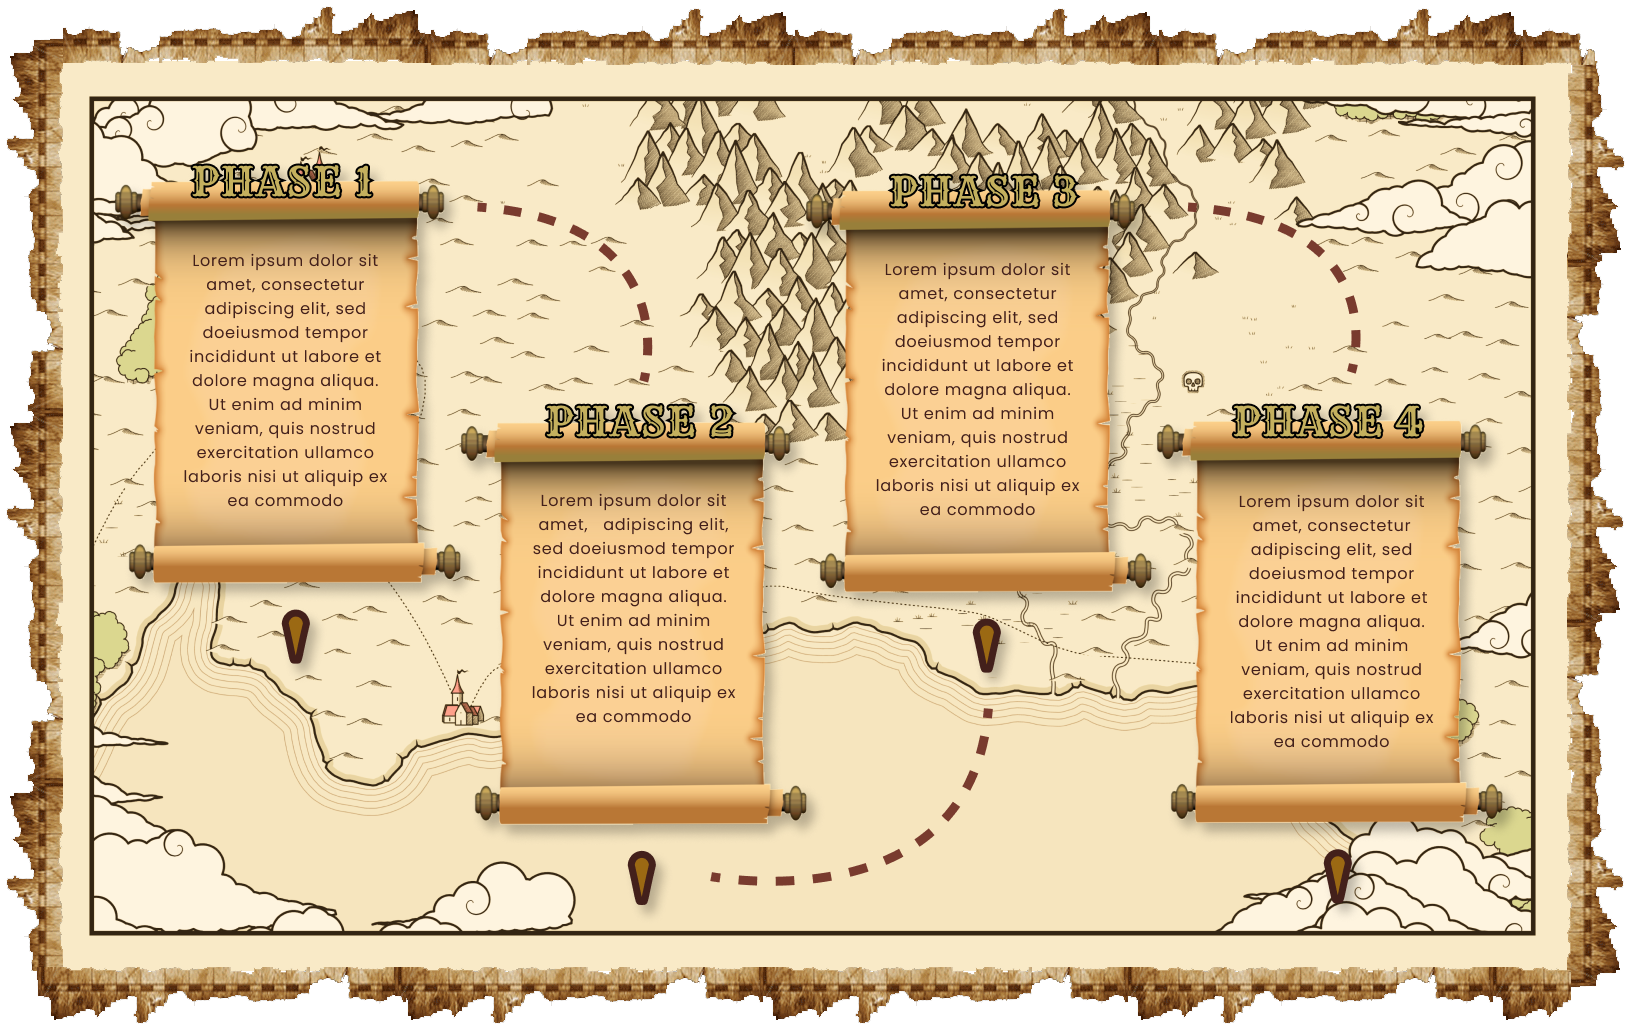
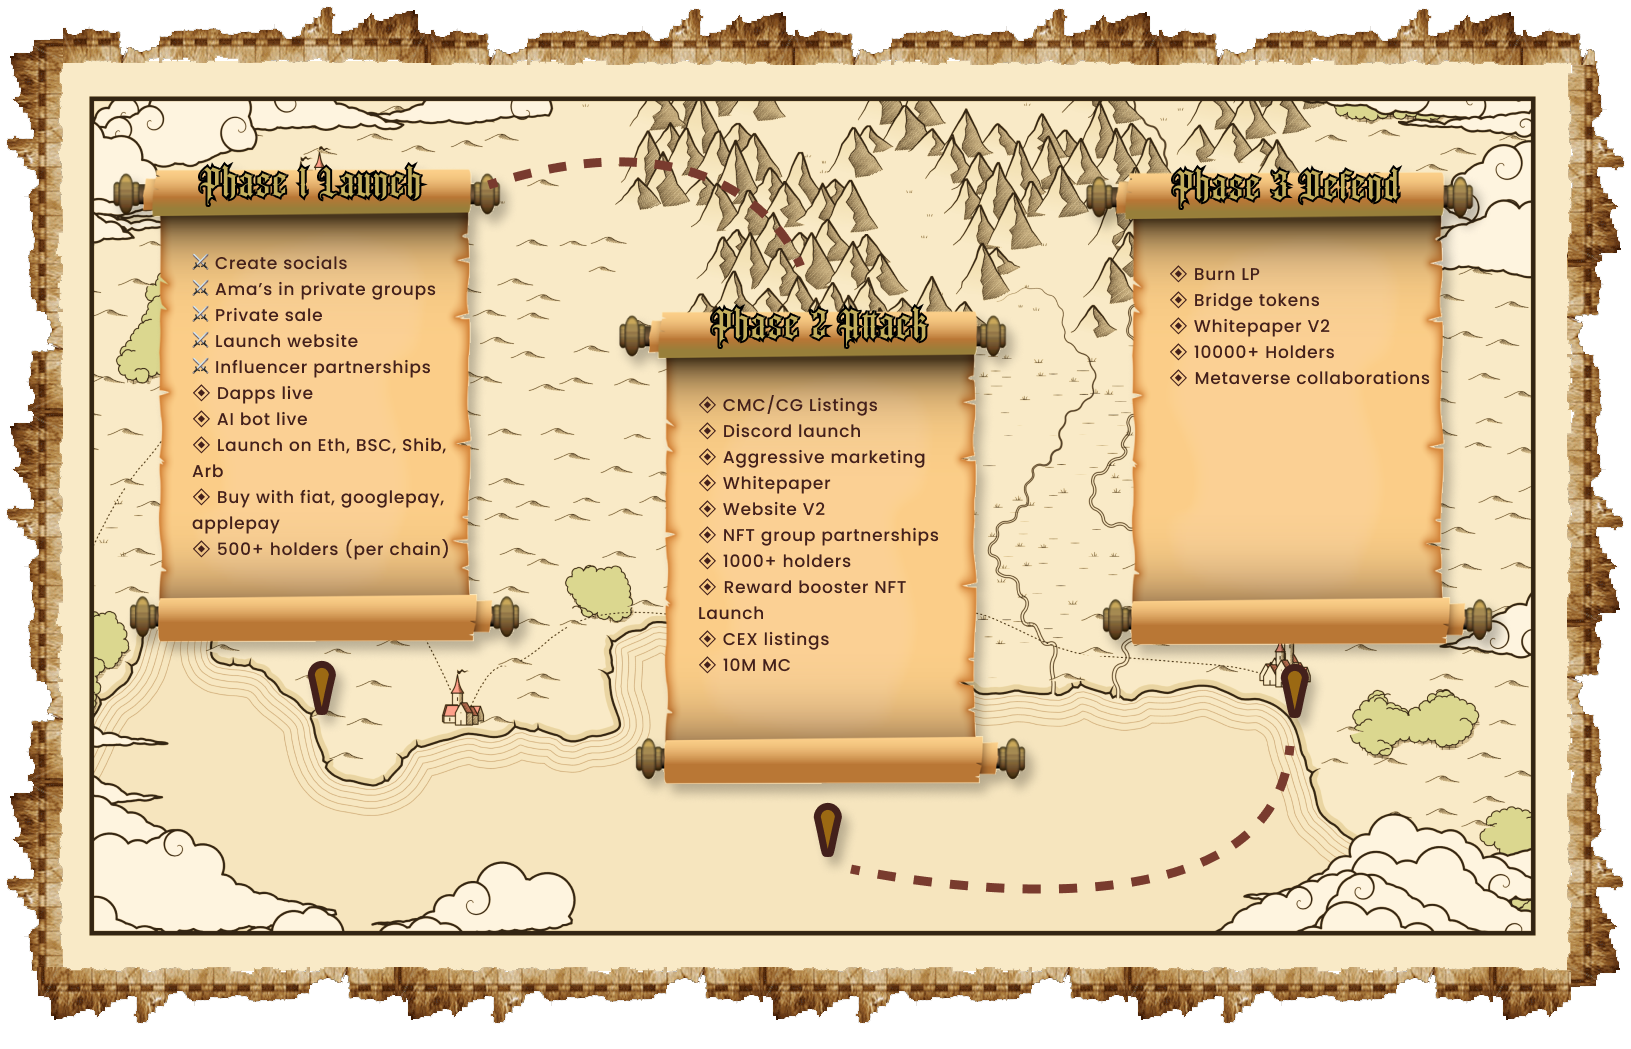
fixed roadmap

diff --git a/src/components/Roadmap.jsx b/src/components/Roadmap.jsx
@@ -26,15 +26,15 @@ const Roadmap = () => {
 			desc:
 				<>
 					<p>⚔ Create socials</p>
-					<p>⚔ Ama’s in private groups</p>
+					<p>⚔ Ama&#39;s in private groups</p>
 					<p>⚔ Private sale</p>
 					<p>⚔ Launch website</p>
-					<p>⚔ Influencer partnerships</p>
-					<p>⚔ Dapps live</p>
-					<p>⚔ AI bot live</p>
-					<p>⚔ Launch on Eth, BSC, Shilb, Arb</p>
-					<p>⚔ Buy with fiat, googlepay, applepay</p>
-					<p>⚔ 500+ holders &#40;per chain&#41;</p>
+					<p>◈ Influencer partnerships</p>
+					<p>◈ Dapps live</p>
+					<p>◈ AI bot live</p>
+					<p>◈ Launch on Eth, BSC, Shilb, Arb</p>
+					<p>◈ Buy with fiat, googlepay, applepay</p>
+					<p>◈ 500+ holders &#40;per chain&#41;</p>
 				</>
 
 		},
@@ -42,27 +42,27 @@ const Roadmap = () => {
 			label: "Attack",
 			desc:
 				<>
-					<p>⚔ CM/CG Listings</p>
-					<p>⚔ Discord launch</p>
-					<p>⚔ Aggressive marketing</p>
-					<p>⚔ Whitepaper</p>
-					<p>⚔ Website V2</p>
-					<p>⚔ NFT group partnerships</p>
-					<p>⚔ 1000+ holders</p>
-					<p>⚔ Reward booster NFT launch</p>
-					<p>⚔ CEX listings</p>
-					<p>⚔ 10M MC</p>
+					<p>◈ CM/CG Listings</p>
+					<p>◈ Discord launch</p>
+					<p>◈ Aggressive marketing</p>
+					<p>◈ Whitepaper</p>
+					<p>◈ Website V2</p>
+					<p>◈ NFT group partnerships</p>
+					<p>◈ 1000+ holders</p>
+					<p>◈ Reward booster NFT launch</p>
+					<p>◈ CEX listings</p>
+					<p>◈ 10M MC</p>
 				</>
 		},
 		{
 			label: "Defend",
 			desc:
 				<>
-					<p>⚔ Burn LP</p>
-					<p>⚔ Bridge tokens</p>
-					<p>⚔ Whitepaper V2</p>
-					<p>⚔ 10000+ Holders</p>
-					<p>⚔ Metaverse collaborations</p>
+					<p>◈ Burn LP</p>
+					<p>◈ Bridge tokens</p>
+					<p>◈ Whitepaper V2</p>
+					<p>◈ 10000+ Holders</p>
+					<p>◈ Metaverse collaborations</p>
 				</>
 		}
 	]
